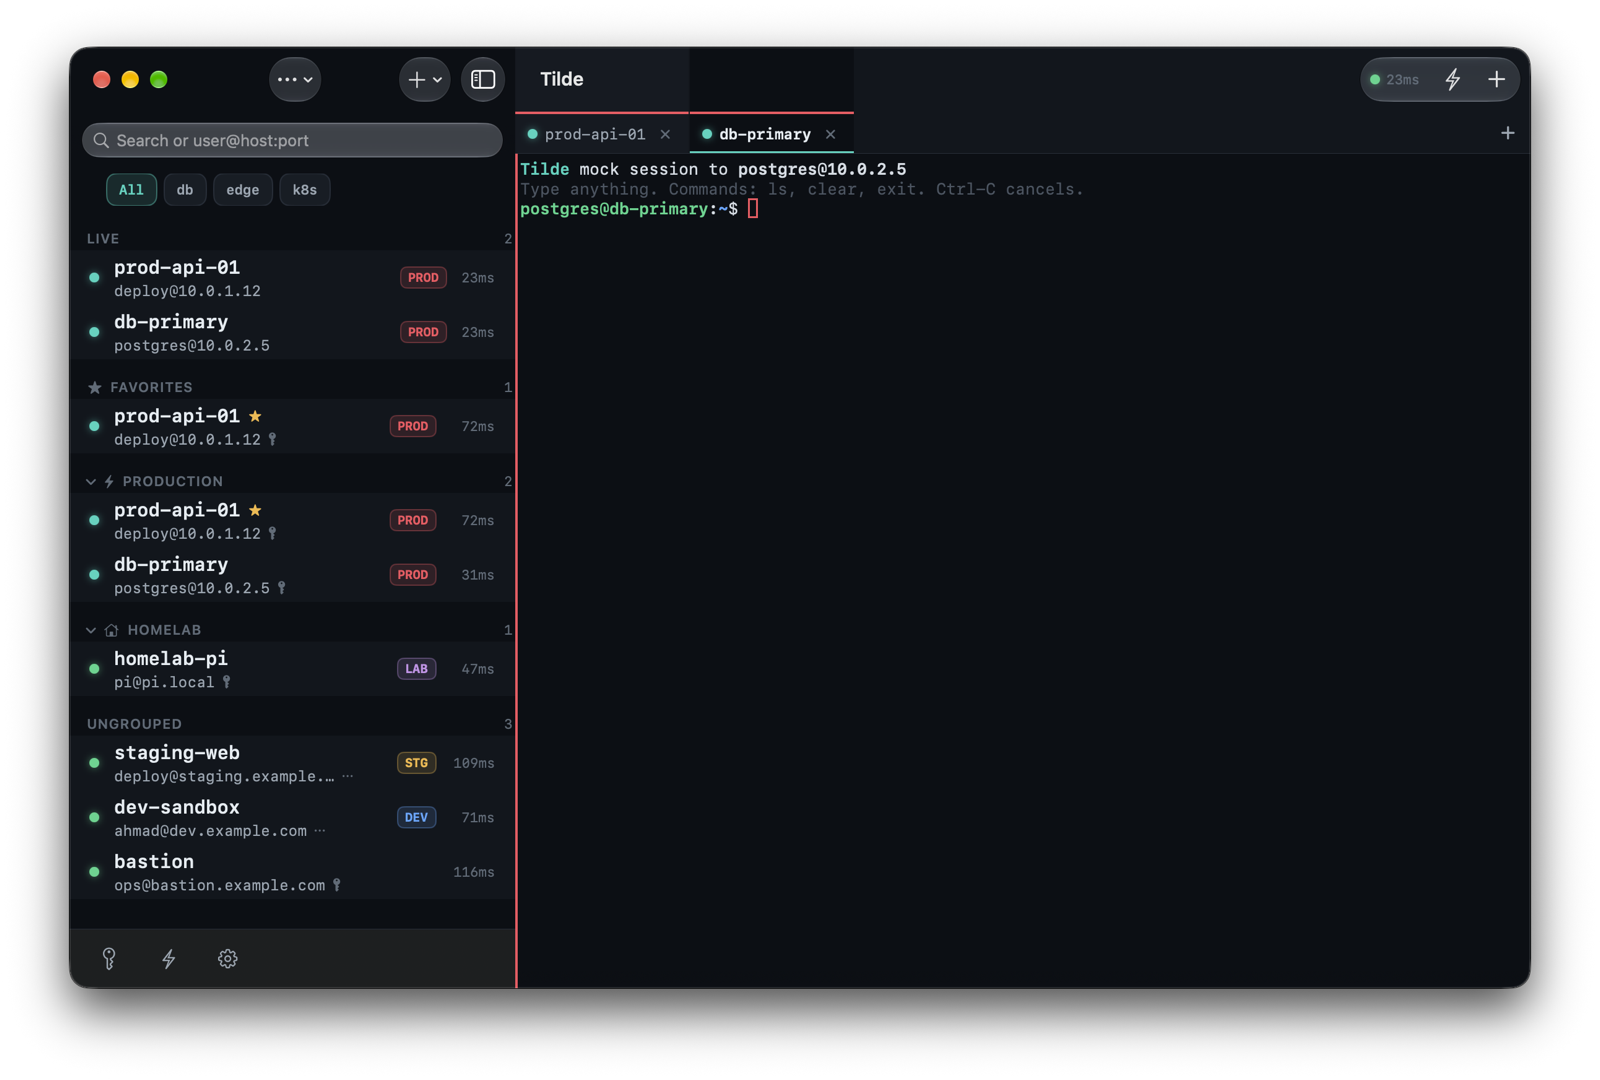
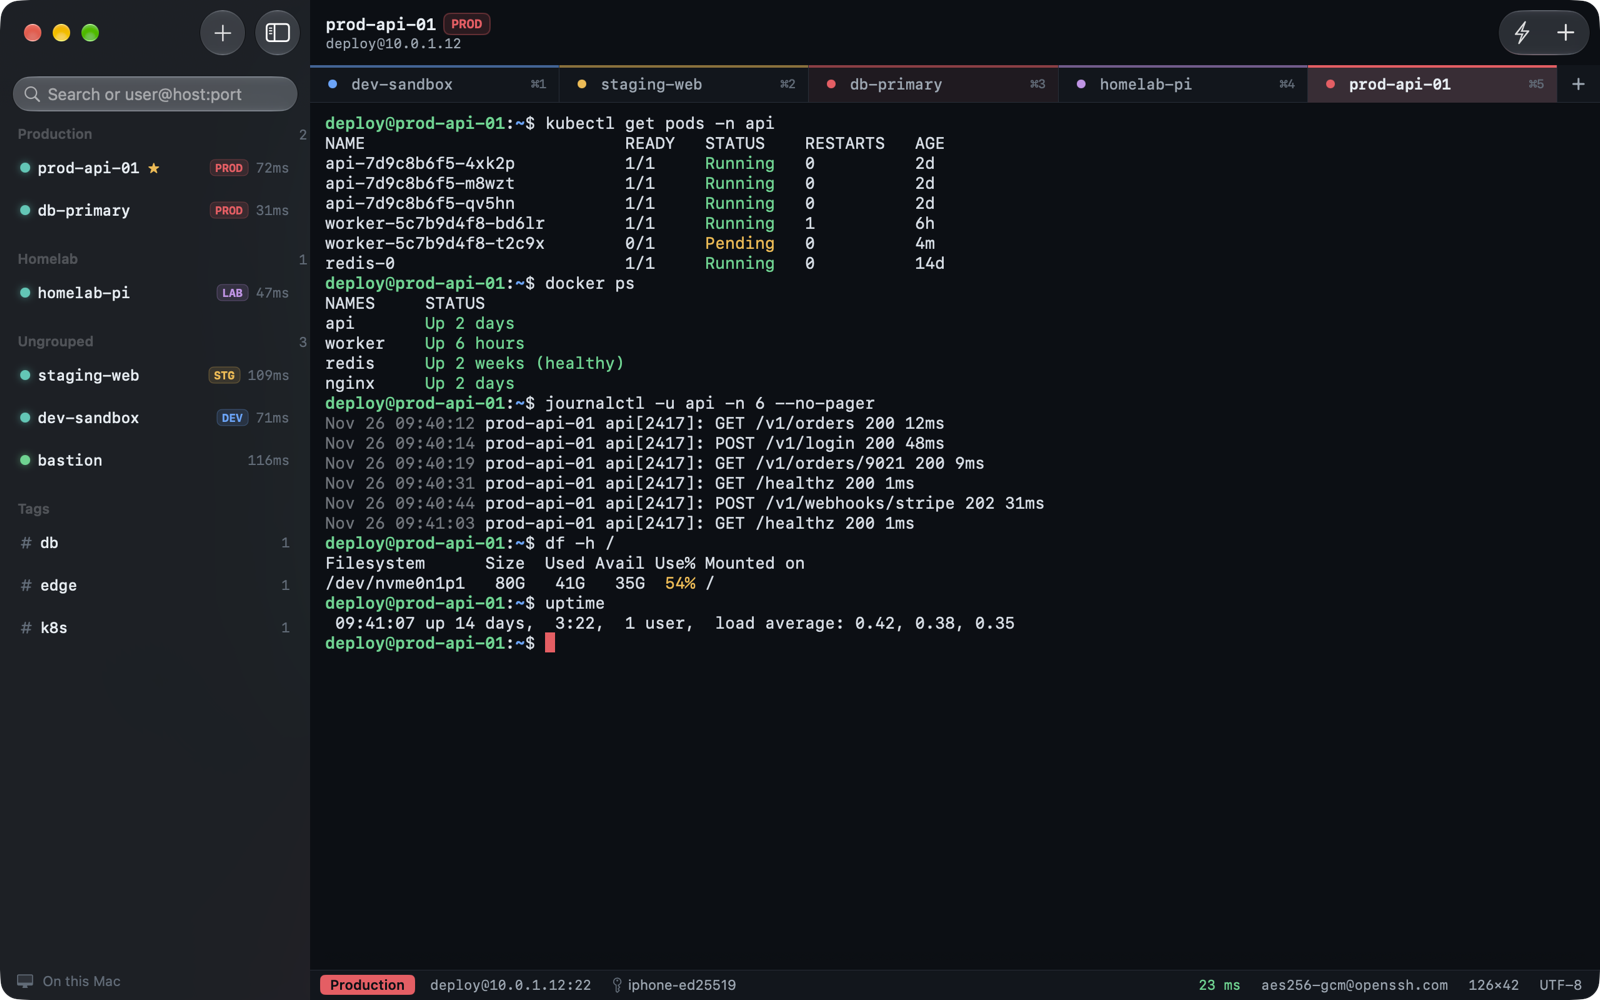
Release 1.1.0 (build 3)
New Mac design, exit closes the tab, terminal focus on connect, and the
sidebar hiding while a session is open. Changelog, release notes, README and
the Mac screenshot are updated.

diff --git a/CHANGELOG.md b/CHANGELOG.md
@@ -4,6 +4,33 @@ All notable changes to Tilde are documented here. The format follows [Keep a Cha
 
 ## [Unreleased]
 
+## [1.1.0] - 2026-11-26
+
+A new Mac design, plus session fixes on every platform.
+
+### Added
+
+- Mac: a source-list sidebar with one compact row per server, collapsible groups, tag filters, favorites starred and sorted first, and Quick Connect in the sidebar search (⌘L).
+- Mac: a start page when no session is open, with Quick Connect, recent servers, environment health and a "shell exited" banner with Reopen (⇧⌘T).
+- Mac: a status bar under each session with environment, address, key, latency, cipher and terminal size.
+- Mac: the unknown-host prompt appears inside its own tab, so other sessions keep running. Trusting stays click-only.
+- Mac: a native server editor with pop-up menus, a tag field, an environment-variables table, Test Connection and a copyable `ssh` command line.
+- Mac: a Settings window with General, Terminal, Security, Sync and Known Hosts panes; Known Hosts is a sortable table.
+- Mac: Keys (⌥⌘K) and Snippets (⌥⌘S) open in their own windows; ⌃⌘S toggles the sidebar.
+
+### Changed
+
+- Typing `exit` (or `logout`, Ctrl-D) closes the session's tab and returns to the server list.
+- The terminal takes keyboard focus as soon as a session connects and on every tab switch.
+- iPad and Mac: opening a session hides the sidebar; it comes back when the last tab closes.
+- Mac: flat full-width tabs with an environment stripe on top, a red tint on PROD and ⌘-number hints; the PROD edge stripe beside the terminal is gone.
+- iPad and Mac: every sheet uses one padded layout with proper labels, the toolbar buttons are spaced apart, and the terminal has padding.
+
+### Fixed
+
+- Mac: typed keys can no longer reach a hidden tab's shell when focus is handed back after a sheet closes.
+- Mac: a crash when a session opened from the sidebar or the start page.
+
 ## [1.0.0] - 2026-11-26
 
 First release.

diff --git a/README.md b/README.md
@@ -58,15 +58,15 @@ Tilde is an **SSH client** and **terminal** built for the people who get paged: 
 
 <img src="design/screenshots/ipad-terminal.png" alt="Tilde on iPad: sidebar with servers, a terminal tab and the SSH key bar above the keyboard" width="720">
 
-**Mac** (sidebar, tab strip and a terminal per tab):
+**Mac** (server sidebar, tabs and a status bar under each session):
 
-<img src="design/screenshots/mac-window.png" alt="Tilde on Mac: sidebar with servers and two terminal tabs" width="720">
+<img src="design/screenshots/mac-window.png" alt="Tilde on Mac: the server sidebar, terminal tabs and the status bar" width="720">
 
 The screenshots use demo servers (`prod-api-01`, `db-primary` and so on) and a mock session, not real hosts. Interactive mockups of every screen are in [`design/mockups.html`](design/mockups.html); open the file in a browser.
 
 ## Install
 
-**Mac (direct download):** grab [Tilde-1.0.0-macOS.zip](https://github.com/ahmadrezaei/tilde-ssh/releases/latest) from the latest release, unzip it and drag Tilde to Applications. It's signed with a Developer ID and notarized by Apple. Requires macOS 26 or later.
+**Mac (direct download):** grab [Tilde-1.1.0-macOS.zip](https://github.com/ahmadrezaei/tilde-ssh/releases/latest) from the latest release, unzip it and drag Tilde to Applications. It's signed with a Developer ID and notarized by Apple. Requires macOS 26 or later.
 
 **App Store:** _link coming soon_ (`https://apps.apple.com/app/id0000000000`). Free, no in-app purchases.
 
